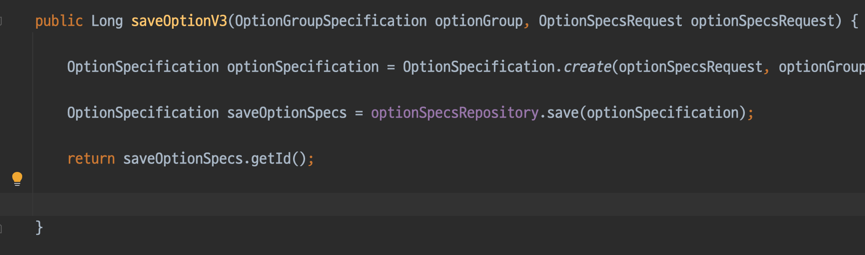
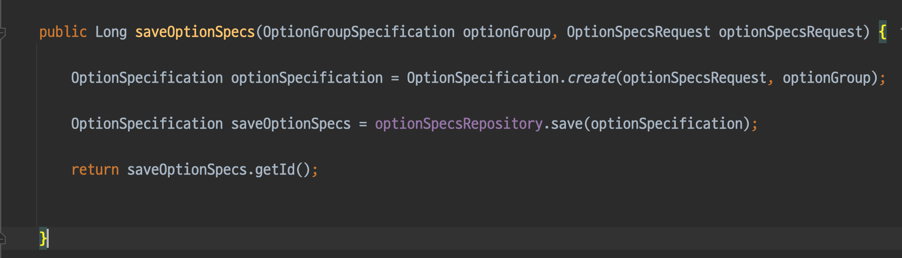
옵션api

diff --git a/src/main/java/com/spacedog/item/service/ItemService.java b/src/main/java/com/spacedog/item/service/ItemService.java
@@ -98,7 +98,7 @@ public class ItemService {
                 List<OptionSpecsRequest> optionSpecsRequest = optionGroup.getOptionSpecsRequest();
 
                 optionSpecsRequest.forEach(optionSpec -> {
-                    Long optionId = optionManager.saveOptionV3(optionGroupResult, optionSpec);
+                    Long optionId = optionManager.saveOptionSpecs(optionGroupResult, optionSpec);
                     stockDomainManager.createExistOptionItemStock(item.getId(), optionId, optionSpec.getStockQuantity());
                 });
             });

diff --git a/src/main/java/com/spacedog/option/service/OptionManager.java b/src/main/java/com/spacedog/option/service/OptionManager.java
@@ -114,7 +114,7 @@ public class OptionManager {
     }
 
 
-    public Long saveOptionV3(OptionGroupSpecification optionGroup, OptionSpecsRequest optionSpecsRequest) {
+    public Long saveOptionSpecs(OptionGroupSpecification optionGroup, OptionSpecsRequest optionSpecsRequest) {
 
         OptionSpecification optionSpecification = OptionSpecification.create(optionSpecsRequest, optionGroup);
 

diff --git a/README.md b/README.md
@@ -236,7 +236,7 @@ Compoent 계층이 Data 계층 (Repository) 계층과 통신하고 <br>
 
 
 </details>
-[
+
 <details>
 <summary>파일 API</summary>
 
